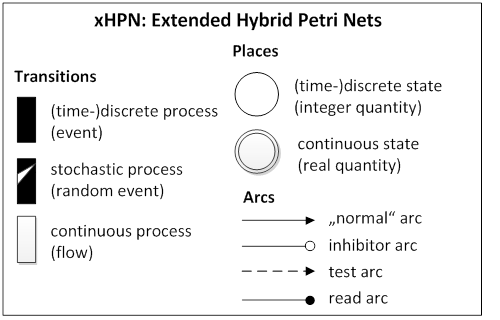
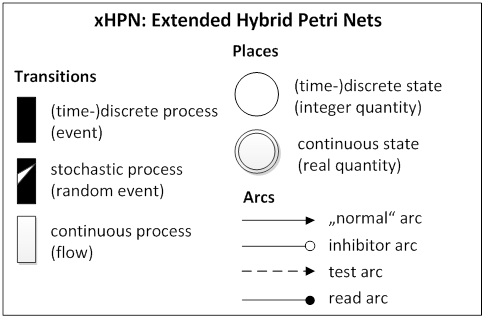
Fix the user's guide (#70)
* Fix the icon of the user's guide

* Make the overview image readable on the github main page if using dark theme

* Fix affiliations and remove dead ammo link

* Update list of publications

diff --git a/README.md b/README.md
@@ -31,7 +31,6 @@ it can be redistributed and/or modified under the terms of the [Modelica License
     University of Applied Sciences Bielefeld
     Department of engineering and mathematics
     33619 Bielefeld - Germany
-    http://www.fh-bielefeld.de/ammo
 * Sabrina Pro&szlig;
 * Lennart Ochel
 * Timo Lask
